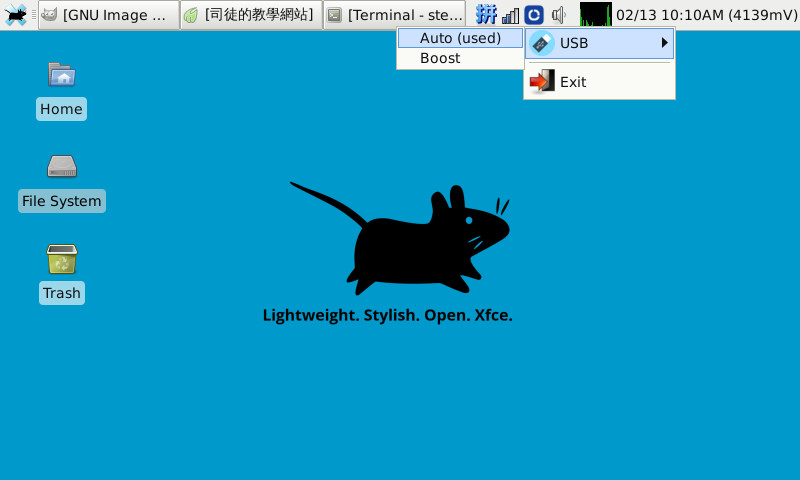
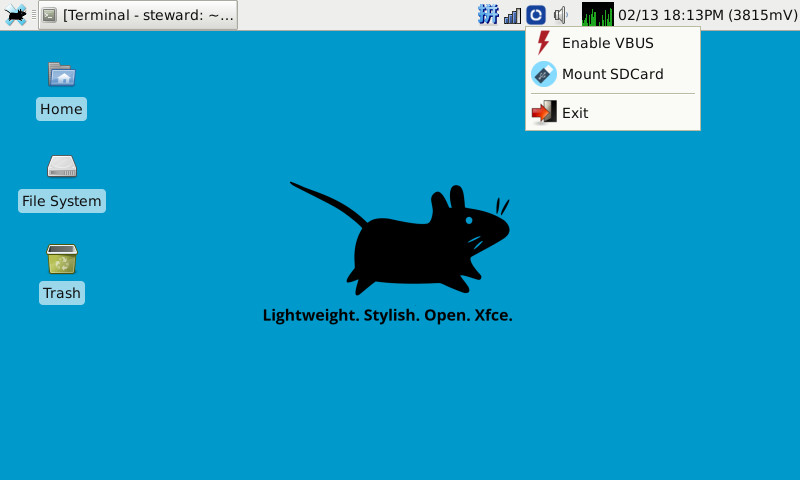
update n900 page

Changed region(s): [[0.0312, 0.0, 0.9688, 0.2812], [0.0, 0.3125, 0.1562, 0.4688]]

diff --git a/phone/n900/native/trayicon.htm b/phone/n900/native/trayicon.htm
@@ -48,7 +48,7 @@
 <p><b>自製設定Trayicon</b></p>
 <hr size="1">
 <p>
-由於目前的VBUS供電需要透過CommandLine設定，司徒也不想一直開啓VBUS供電功能，主要原因在於耗電過快，因此，司徒使用PyGtk寫了一個USB供電設定App，可以透過這個TrayIcon作切換，程式碼如下。<br><br>
+由於目前的VBUS供電需要透過CommandLine設定，司徒也不想一直開啓VBUS供電功能，主要原因在於耗電過快，因此，司徒使用PyGtk寫了一個USB供電和掛載SDCard的設定App，可以透過這個TrayIcon作切換，程式碼如下。<br><br>
 
 trayicon.py
 </p>
@@ -63,10 +63,15 @@ import commands
 import subprocess
 
 base_path = '/usr/n900/trayicon/'
-usb_mode = '/sys/devices/platform/68000000.ocp/48072000.i2c/i2c-2/2-006b/power_supply/bq24150a-0/mode'
+usb_vbus = '/sys/devices/platform/68000000.ocp/48072000.i2c/i2c-2/2-006b/power_supply/bq24150a-0/mode'
+usb_mass = '/sys/devices/platform/68000000.ocp/480ab000.usb_otg_hs/musb-hdrc.0.auto/gadget/lun0/file'
 
 class n900:
+  mass = False
+
   def __init__(self):
+    mass = False
+    os.system('echo "" > {}'.format(usb_mass))
     self.statusicon = gtk.StatusIcon()
     self.statusicon.set_from_file('{}{}'.format(base_path, 'main.png'))
     self.statusicon.connect("activate", self.left_click_event)
@@ -75,32 +80,32 @@ class n900:
     time = gtk.get_current_event_time()
     button = gtk.get_current_event().button
 
-    cur_mode = commands.getoutput('cat {}'.format(usb_mode))
-
-    auto = None
     menu = gtk.Menu()
-    submenu = gtk.Menu()
-    if 'auto' in cur_mode:
-      auto = gtk.MenuItem("Auto (used)")
-    else:
-      auto = gtk.MenuItem("Auto")
-    auto.connect("button-press-event", self.usb_auto) 
-    submenu.append(auto)
+    cur_vbus = commands.getoutput('cat {}'.format(usb_vbus))
 
-    boost = None
-    if 'boost' in cur_mode:
-      boost = gtk.MenuItem("Boost (used)")
-    else:
-      boost = gtk.MenuItem("Boost")
-    submenu.append(boost)
-    boost.connect("button-press-event", self.usb_boost) 
-
+    submenu = None
     img = gtk.Image()
-    img.set_from_file('{}{}'.format(base_path, 'usb.png'))
-    n1 = gtk.ImageMenuItem('USB')
-    n1.set_image(img)
-    n1.set_submenu(submenu) 
-    menu.append(n1)
+    img.set_from_file('{}{}'.format(base_path, 'vbus.png'))
+    if 'auto' in cur_vbus:
+      submenu = gtk.ImageMenuItem("Enable VBUS")
+      submenu.connect("button-press-event", self.enable_vbus) 
+    else:
+      submenu = gtk.ImageMenuItem("Disable VBUS")
+      submenu.connect("button-press-event", self.disable_vbus) 
+    submenu.set_image(img)
+    menu.append(submenu)
+
+    submenu = None
+    img = gtk.Image()
+    img.set_from_file('{}{}'.format(base_path, 'mass.png'))
+    if self.mass == False:
+      submenu = gtk.ImageMenuItem("Mount SDCard")
+      submenu.connect("button-press-event", self.mount_sd) 
+    else:
+      submenu = gtk.ImageMenuItem("Unmount SDCard")
+      submenu.connect("button-press-event", self.unmount_sd) 
+    submenu.set_image(img)
+    menu.append(submenu)
 
     menu.append(gtk.SeparatorMenuItem())
     menuexit = gtk.ImageMenuItem("Exit")
@@ -114,11 +119,19 @@ class n900:
     menu.popup(None, None, 
       gtk.status_icon_position_menu, button, time, self.statusicon) 
 
-  def usb_auto(self, widget, event): 
-    os.system('echo auto > {}'.format(usb_mode))
+  def disable_vbus(self, widget, event): 
+    os.system('echo auto > {}'.format(usb_vbus))
   
-  def usb_boost(self, widget, event): 
-    os.system('echo boost > {}'.format(usb_mode))
+  def enable_vbus(self, widget, event): 
+    os.system('echo boost > {}'.format(usb_vbus))
+  
+  def mount_sd(self, widget, event): 
+    self.mass = True
+    os.system('echo /dev/mmcblk0p1 > {}'.format(usb_mass))
+  
+  def unmount_sd(self, widget, event): 
+    self.mass = False
+    os.system('echo "" > {}'.format(usb_mass))
   
   def exit(self, widget, event): 
     if event.button == 1:
@@ -126,6 +139,7 @@ class n900:
   
 n900()
 gtk.main()
+
 </pre><br>
 
 <p>
